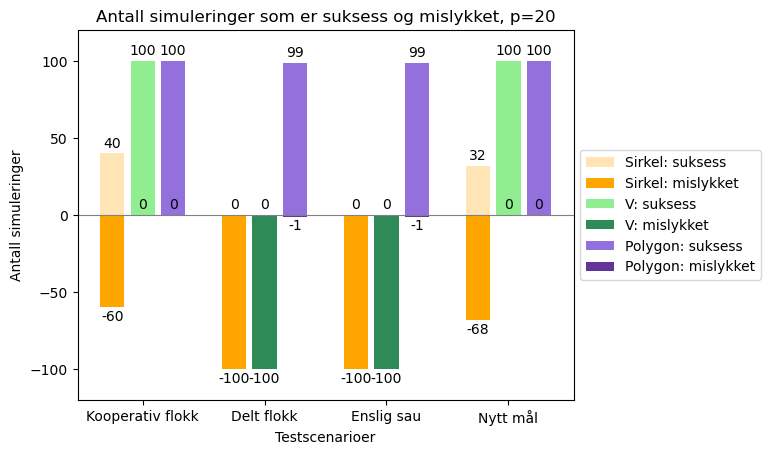
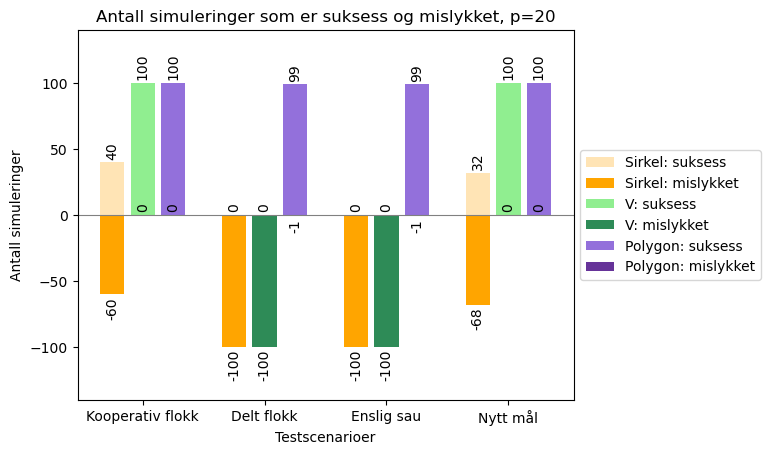
småfiks på diagrammer og tabeller

diff --git a/diagrams.py b/diagrams.py
@@ -166,14 +166,14 @@ def succsessrate_existing(dir_path, df_circle, df_v, df_polygon, perception):
     polygon_1 = ax.bar(ind+0.25, polygon_success, width, label='Polygon: suksess', color='mediumpurple')
     polygon_2 = ax.bar(ind+0.25, polygon_failure, width, label='Polygon: mislykket', color='rebeccapurple')
 
-    ax.bar_label(circle_1, padding=2)
-    ax.bar_label(circle_2, padding=2)
-    ax.bar_label(v_1, padding=2)
-    ax.bar_label(v_2, padding=2)
-    ax.bar_label(polygon_1, padding=2)
-    ax.bar_label(polygon_2, padding=2)
+    ax.bar_label(circle_1, rotation=90, padding=2)
+    ax.bar_label(circle_2, rotation=90, padding=2)
+    ax.bar_label(v_1, rotation=90, padding=2)
+    ax.bar_label(v_2, rotation=90, padding=2)
+    ax.bar_label(polygon_1, rotation=90, padding=2)
+    ax.bar_label(polygon_2, rotation=90, padding=2)
 
-    ax.margins(y=0.1)
+    ax.margins(y=0.2)
 
     ax.axhline(0, color='grey', linewidth=0.8)
     ax.set_xlabel('Testscenarioer')
@@ -381,28 +381,28 @@ def successrate_all(dir_path, df_circle, df_v, df_polygon, df_our, perception):
     
     fig, ax = plt.subplots()
 
-    circle_1 = ax.bar(ind-0.35, circle_success, width, label='Sirkel: suksess', color='moccasin')
-    circle_2 = ax.bar(ind-0.35, circle_failure, width, label='Sirkel: mislykket', color='orange')
+    circle_1 = ax.bar(ind-0.3, circle_success, width, label='Sirkel: suksess', color='moccasin')
+    circle_2 = ax.bar(ind-0.3, circle_failure, width, label='Sirkel: mislykket', color='orange')
 
-    v_1 = ax.bar(ind-0.12, v_success, width, label='V: suksess', color='lightgreen')
-    v_2 = ax.bar(ind-0.12, v_failure, width, label='V: mislykket', color='seagreen')
+    v_1 = ax.bar(ind-0.1, v_success, width, label='V: suksess', color='lightgreen')
+    v_2 = ax.bar(ind-0.1, v_failure, width, label='V: mislykket', color='seagreen')
 
-    polygon_1 = ax.bar(ind+0.12, polygon_success, width, label='Polygon: suksess', color='mediumpurple')
-    polygon_2 = ax.bar(ind+0.12, polygon_failure, width, label='Polygon: mislykket', color='rebeccapurple')
+    polygon_1 = ax.bar(ind+0.1, polygon_success, width, label='Polygon: suksess', color='mediumpurple')
+    polygon_2 = ax.bar(ind+0.1, polygon_failure, width, label='Polygon: mislykket', color='rebeccapurple')
 
-    our_1 = ax.bar(ind+0.35, our_success, width, label='Massesenter: suksess', color='lightcoral')
-    our_2 = ax.bar(ind+0.35, our_failure, width, label='Massesenter: mislykket', color='crimson')
+    our_1 = ax.bar(ind+0.3, our_success, width, label='Massesenter: suksess', color='lightcoral')
+    our_2 = ax.bar(ind+0.3, our_failure, width, label='Massesenter: mislykket', color='crimson')
 
-    ax.bar_label(circle_1, padding=2)
-    ax.bar_label(circle_2, padding=2)
-    ax.bar_label(v_1, padding=2)
-    ax.bar_label(v_2, padding=2)
-    ax.bar_label(polygon_1, padding=2)
-    ax.bar_label(polygon_2, padding=2)
-    ax.bar_label(our_1, padding=2)
-    ax.bar_label(our_2, padding=2)
+    ax.bar_label(circle_1, rotation=90, padding=2)
+    ax.bar_label(circle_2, rotation=90, padding=2)
+    ax.bar_label(v_1, rotation=90, padding=2)
+    ax.bar_label(v_2, rotation=90, padding=2)
+    ax.bar_label(polygon_1, rotation=90, padding=2)
+    ax.bar_label(polygon_2, rotation=90, padding=2)
+    ax.bar_label(our_1, rotation=90, padding=2)
+    ax.bar_label(our_2, rotation=90, padding=2)
 
-    ax.margins(y=0.1)
+    ax.margins(y=0.2)
 
     ax.axhline(0, color='grey', linewidth=0.8)
     ax.set_xlabel('Testscenarioer')
@@ -599,18 +599,18 @@ def successrate_our(dir_path, df_com, df_polygon, perception):
         # Make figure
         fig, ax = plt.subplots()
 
-        com_1 = ax.bar(ind-0.12, f_success, width, label='Massesenter: suksess', color='lightcoral')
-        com_2 = ax.bar(ind-0.12, f_failure, width, label='Massesenter: mislykket', color='crimson')
+        com_1 = ax.bar(ind-0.1, f_success, width, label='Massesenter: suksess', color='lightcoral')
+        com_2 = ax.bar(ind-0.1, f_failure, width, label='Massesenter: mislykket', color='crimson')
 
-        polygon_1 = ax.bar(ind+0.12, polygon_success, width, label='V-polygon: suksess', color='skyblue')
-        polygon_2 = ax.bar(ind+0.12, polygon_failure, width, label='V-polygon: mislykket', color='cornflowerblue')
+        polygon_1 = ax.bar(ind+0.1, polygon_success, width, label='V-polygon: suksess', color='skyblue')
+        polygon_2 = ax.bar(ind+0.1, polygon_failure, width, label='V-polygon: mislykket', color='cornflowerblue')
 
 
-        ax.margins(y=0.1)
-        ax.bar_label(com_1, padding=2)
-        ax.bar_label(com_2, padding=2)
-        ax.bar_label(polygon_1, padding=2)
-        ax.bar_label(polygon_2, padding=2)
+        ax.margins(y=0.2)
+        ax.bar_label(com_1, rotation=90, padding=2)
+        ax.bar_label(com_2, rotation=90, padding=2)
+        ax.bar_label(polygon_1, rotation=90, padding=2)
+        ax.bar_label(polygon_2, rotation=90, padding=2)
 
         ax.axhline(0, color='grey', linewidth=0.8)
         ax.set_xlabel('Vinkler')

diff --git a/tables.py b/tables.py
@@ -97,7 +97,7 @@ def p_value(path):
                 if not np.isnan(mean) and not np.isnan(std):
                     stat, p_value = stats.ttest_ind_from_stats(our_mean, our_std, NO_SIMULATIONS, mean, std, NO_SIMULATIONS)
                     # Add the table row to a CSV file
-                    df.loc[len(df), df.columns] = testtype, drone, perception, round(p_value, 4)
+                    df.loc[len(df), df.columns] = TESTTYPES_NAME[TESTTYPES.index(testtype)], DRONENAMES[drone], perception, round(p_value, 4)
     
     # Save the dataframe as a CSV file
     filename = "{}/p-value.csv".format(path)

diff --git a/constants.py b/constants.py
@@ -12,7 +12,7 @@ OUR_RESULTS_PATH = './our_sim_results/2023-05-23 15:08:48.771652'
 # SIMULATIONS
 NO_SHEEP = 5 # Amount of sheep
 NO_DRONES = 3 # Amount of drones
-NO_SIMULATIONS = 1
+NO_SIMULATIONS = 100
 TIME_LIMIT = 70 # Time limit of simulation, seconds
 
 TARGET_FPS = 100 # Ønsket hastighet på simuleringen
